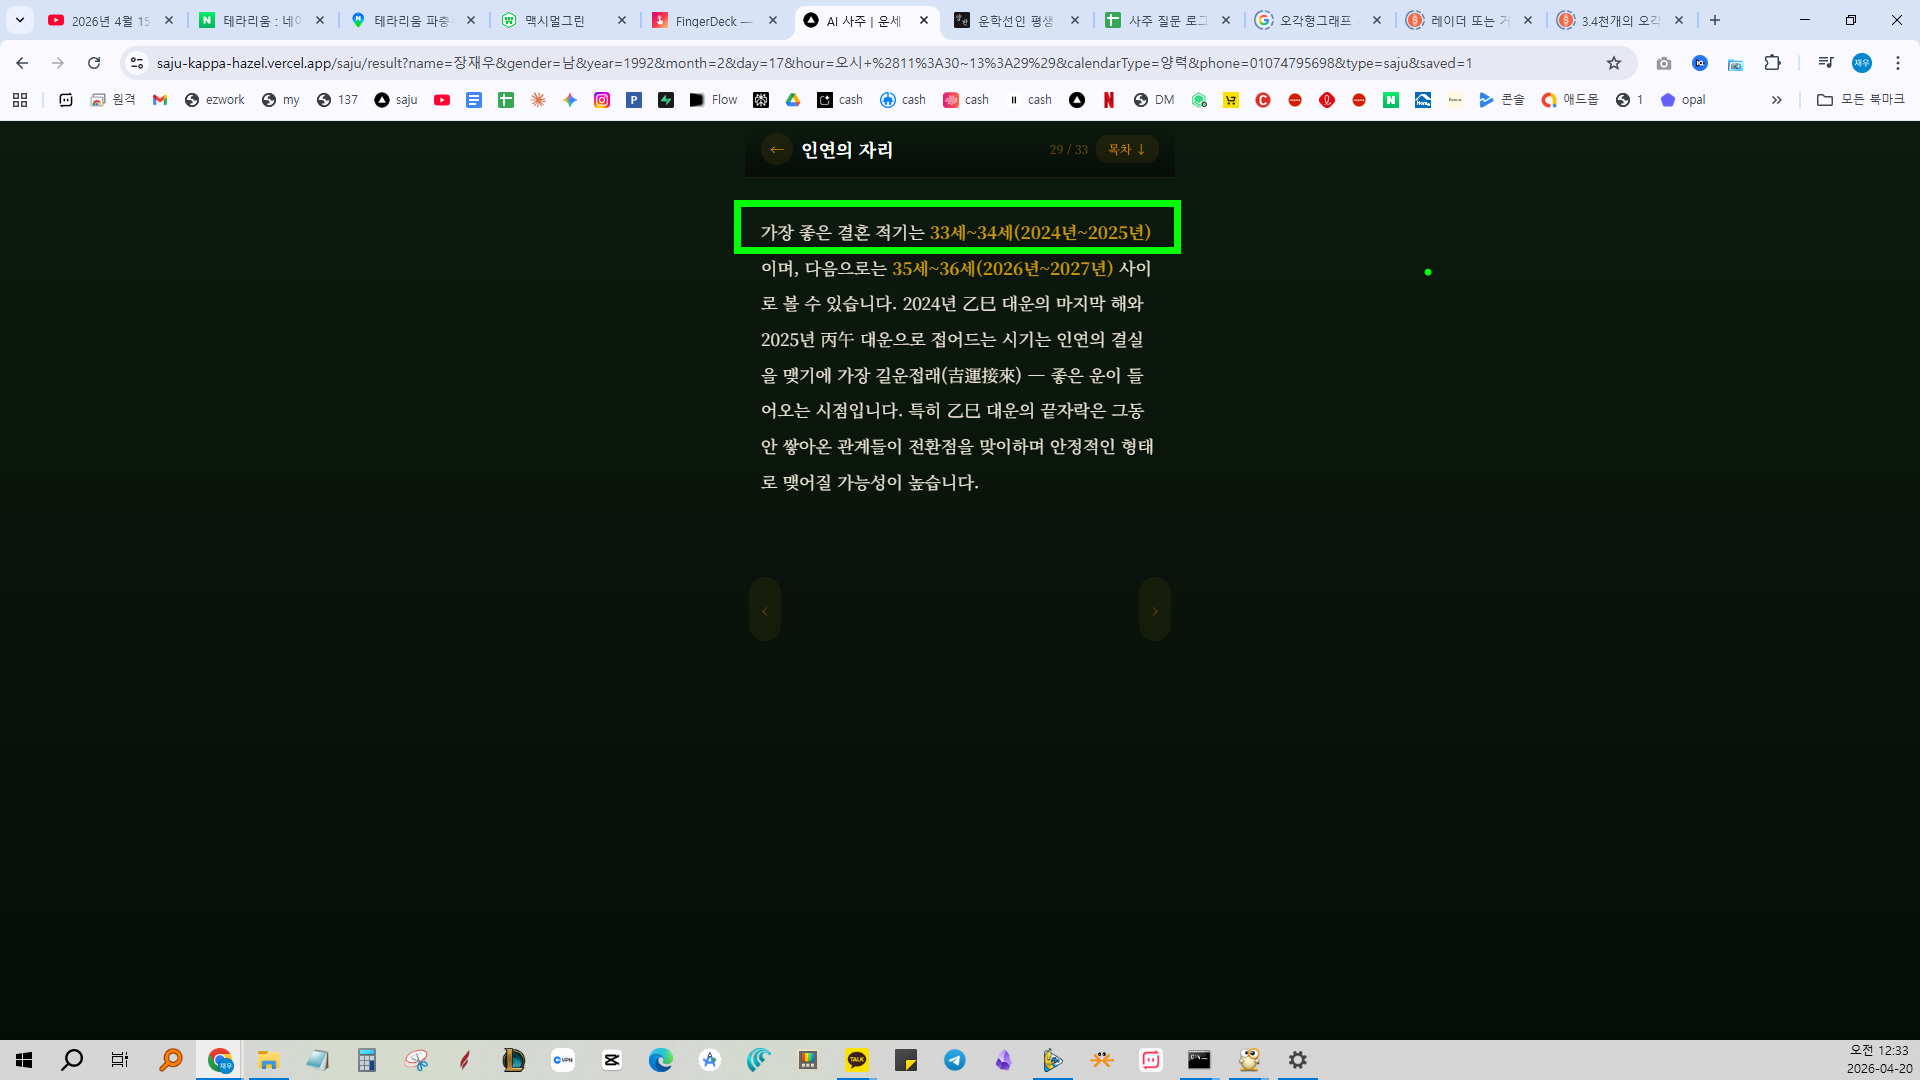
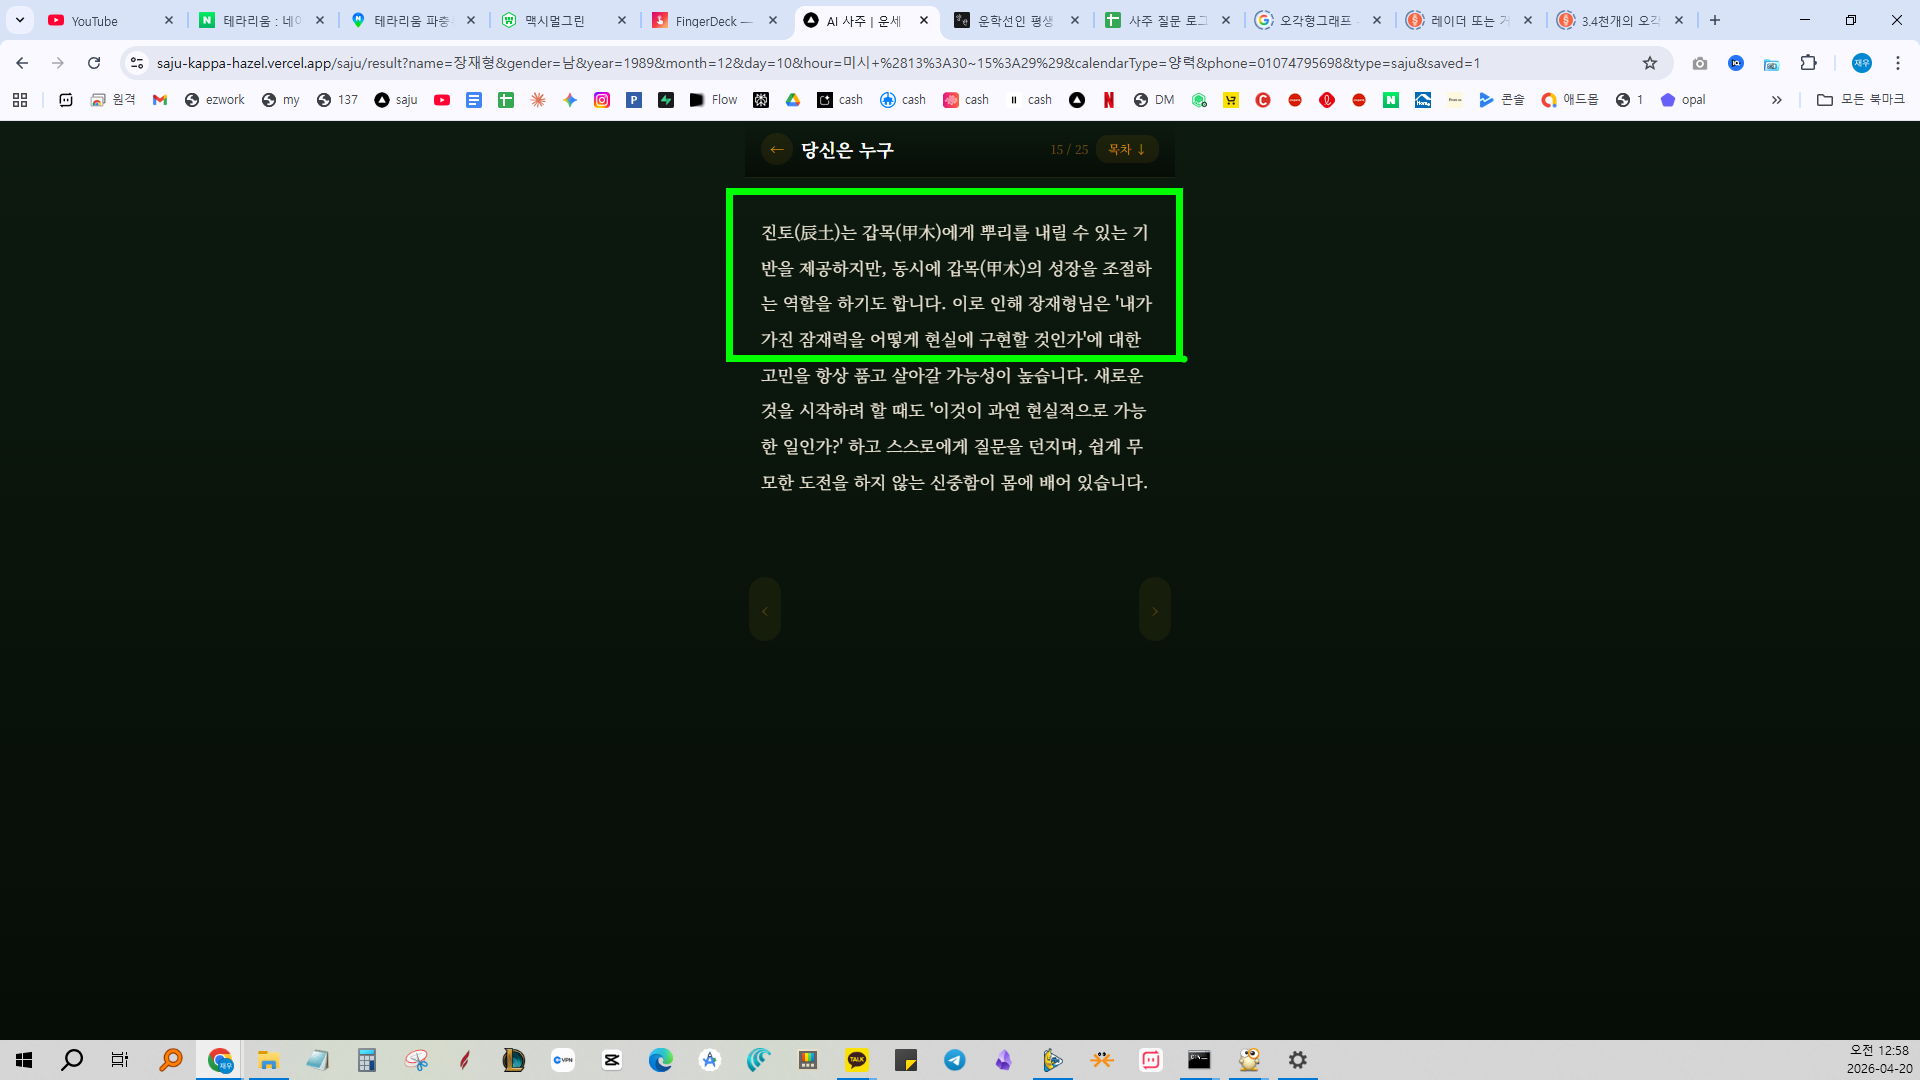
도입 중복 금지 규칙 추가 — 일간 소개 재설명 금지
매 섹션마다 "OO님의 일간은 甲木으로..." 반복되던 문제 해결.
- 일간 소개·자연 비유 재설명 금지
- 섹션 첫 문장 이름 호명 금지
- 본론부터 바로 직진 (기질·내면 독백·구체 인사이트)

diff --git a/app/api/generate/route.ts b/app/api/generate/route.ts
@@ -491,6 +491,17 @@ ${ctx}
    예: "대화 중 상대의 논리가 뚫리는 게 보이는데 굳이 지적 안 하고 넘어가는 때"
 ✓ **직업 중립 언어**: "일", "사람들", "관계", "프로젝트" 같이 어떤 직군에도 통하는 단어 사용
 
+[도입 중복 금지 규칙 — 매우 중요]
+✗ **절대 금지**: 섹션 첫 문장에 "${d.name}님의 일간은 ○○으로" "○○ 일간이라 ~~한 기질을" 같은 일간 소개·재설명
+✗ **절대 금지**: "큰 나무처럼 뻗어나가는", "따뜻한 태양처럼" 같은 일간별 자연 비유 **재설명** (이건 오직 첫 섹션 personality1·opener에서만)
+✗ **절대 금지**: 각 섹션 도입부에 이름 호명으로 시작 ("${d.name}님은...") — 본론부터 바로
+✓ **본론 직진**: 첫 문장부터 기질·내면 독백·구체 인사이트로 바로 들어갈 것
+   좋은 예: "당신의 내면에는 늘 '이것만은 물러설 수 없다' 하는 선이 하나 있습니다"
+   좋은 예: "대화 도중 상대의 논리가 뚫리는 게 보이는데도 굳이 지적하지 않는 순간이 잦으실 겁니다"
+✓ 일간·용신·십성은 **근거로 스치듯** 쓰되 재설명 금지
+   좋은 예: "뻗어나가는 갑목(甲木)의 기운이 막히면 유난히 답답함을 느끼게 되는데..."
+✓ 이름 호명은 **필요 시에만** (본론 중간에 자연스럽게) — 도입부 호명 금지
+
 [전통 한자 표현 & 시적 표현 규칙]
 ✓ **한자 사자성어 섹션당 1~2개만** 자연스럽게 삽입. 맥락에 맞을 때만.
    재운대통(財運大通)·관운형통(官運亨通)·인덕구비(人德俱備)·전화위복(轉禍爲福)·
